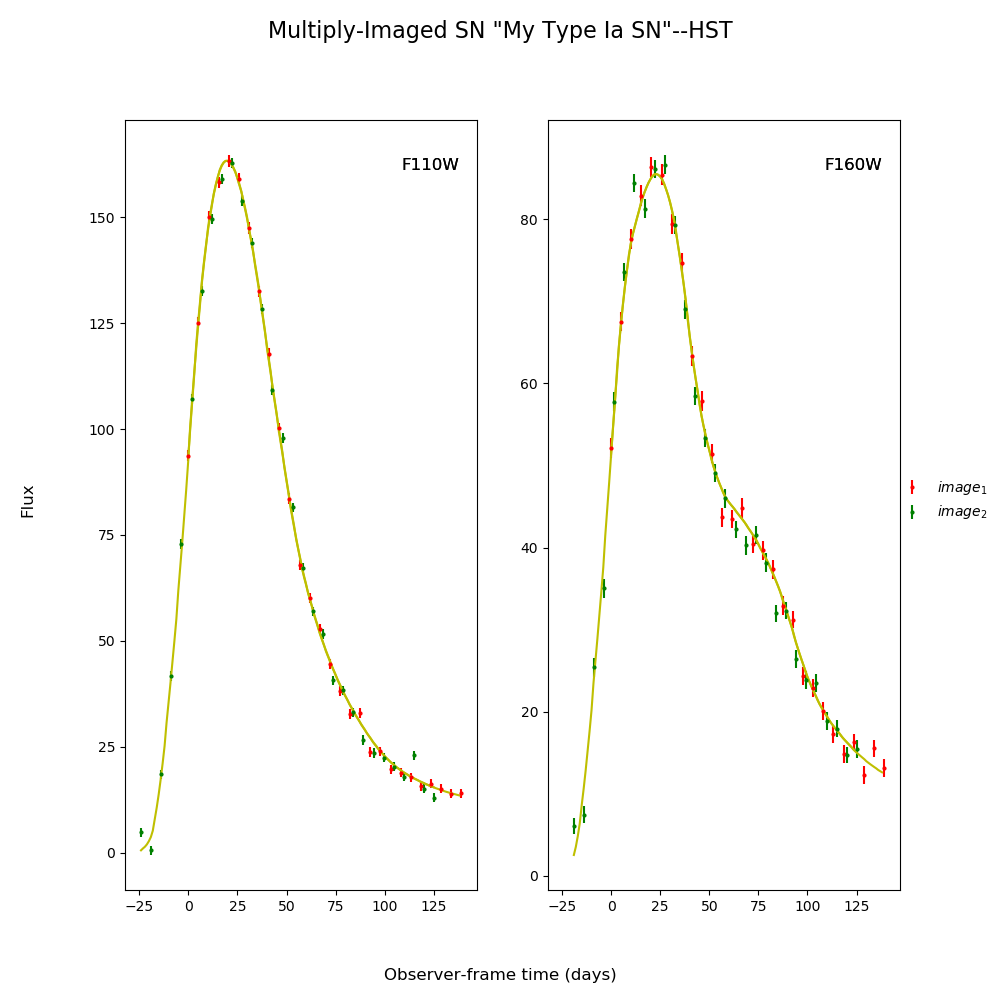
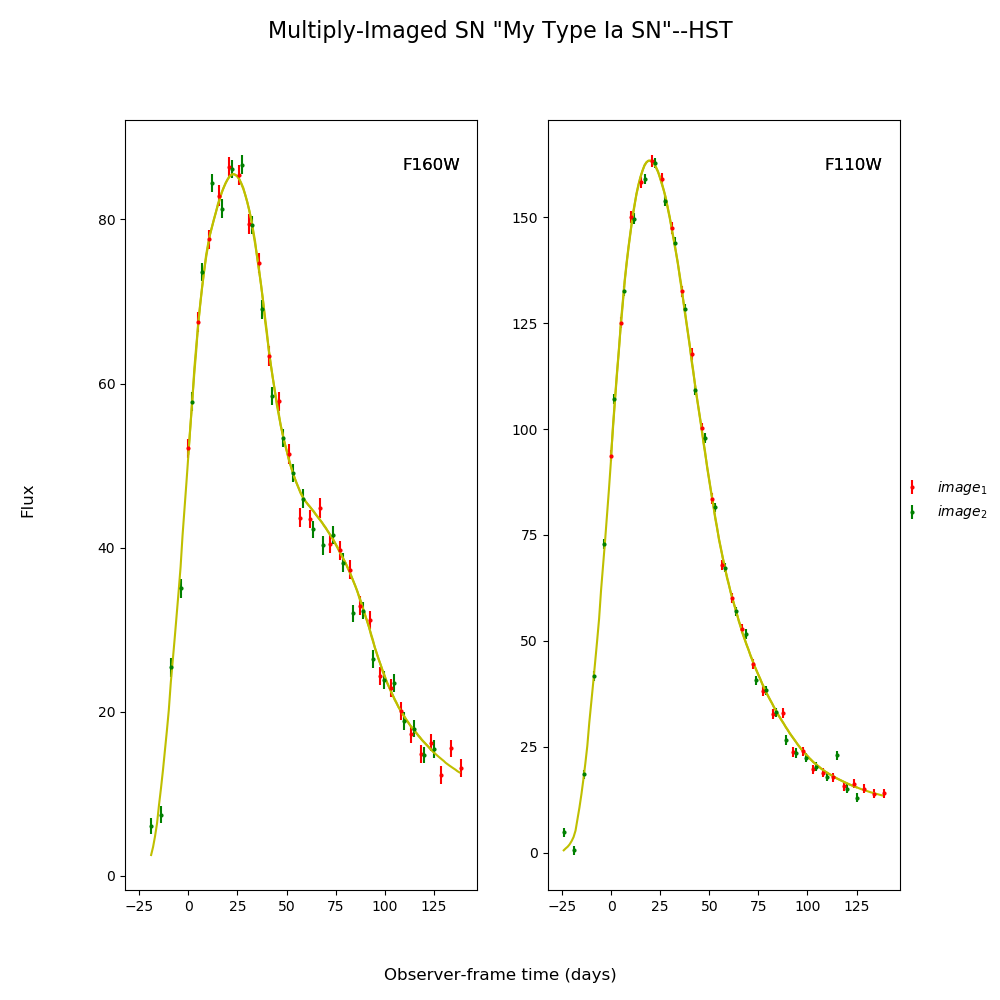
trying to add function ref in docs' '

diff --git a/docs/source/_examples/plot_fitting.py b/docs/source/_examples/plot_fitting.py
@@ -10,9 +10,10 @@ with SNTD.
 ###############################################################
 # There are 3 methods built into SNTD to measure time delays 
 # (parallel, series, color). They are accessed by the same 
-# function:`~sntd.fit_data`. Here ``myMISN`` was generated
-# in the simulation example of the documentation. The true
-# delay for all of these fits is 50 days.
+# function: ~sntd.fit_data . 
+# Here ``myMISN`` was generated in the [simulation example](https://sntd.readthedocs.io/en/latest/examples/plot_sim.html#simulating-supernovae) 
+# of the documentation, using the ~sntd.createMultiplyImagedSN 
+# function. The true delay for all of these fits is 50 days.
 # 
 # **Parallel:**
 
@@ -62,7 +63,7 @@ fitCurves.plot_fit(method='series')
 fitCurves=sntd.fit_data(myMISN,snType='Ia', models='salt2-extended',bands=['F110W','F160W'],
                     params=['t0','c'],constants={'z':1.4,'x1':fitCurves.images['image_1'].fits.model.get('x1')},refImage='image_1',
                     color_param_ignore=['x1'],bounds={'t0':(-20,20),'td':(-20,20),'mu':(.5,2),'c':(-.5,.5)},cut_time=[-50,30],
-                    method='color',microlensing=None,modelcov=False,npoints=100,maxiter=None,minsnr=3)
+                    method='color',microlensing=None,modelcov=False,npoints=200,maxiter=None,minsnr=3)
 
 print(fitCurves.color.time_delays)
 print(fitCurves.color.time_delay_errors)
@@ -81,7 +82,7 @@ fitCurves_parallel=sntd.fit_data(myMISN,snType='Ia', models='salt2-extended',ban
 fitCurves_color=sntd.fit_data(myMISN,snType='Ia', models='salt2-extended',bands=['F110W','F160W'],cut_time=[-50,30],
                 	params=['t0','c'],constants={'z':1.4,'x1':fitCurves.images['image_1'].fits.model.get('x1')},refImage='image_1',
                 	bounds={'t0':(-20,20),'td':(-20,20),'mu':(.5,2),'c':(-.5,.5)},fit_prior=fitCurves_parallel,
-                	method='color',microlensing=None,modelcov=False,npoints=100,maxiter=None,minsnr=3)
+                	method='color',microlensing=None,modelcov=False,npoints=200,maxiter=None,minsnr=3)
 
 print(fitCurves_parallel.parallel.time_delays)
 print(fitCurves_parallel.parallel.time_delay_errors)

diff --git a/docs/source/examples/plot_fitting.py b/docs/source/examples/plot_fitting.py
@@ -10,9 +10,10 @@ with SNTD.
 ###############################################################
 # There are 3 methods built into SNTD to measure time delays 
 # (parallel, series, color). They are accessed by the same 
-# function:`~sntd.fit_data`. Here ``myMISN`` was generated
-# in the simulation example of the documentation. The true
-# delay for all of these fits is 50 days.
+# function: ~sntd.fit_data . 
+# Here ``myMISN`` was generated in the [simulation example](https://sntd.readthedocs.io/en/latest/examples/plot_sim.html#simulating-supernovae) 
+# of the documentation, using the ~sntd.createMultiplyImagedSN 
+# function. The true delay for all of these fits is 50 days.
 # 
 # **Parallel:**
 
@@ -62,7 +63,7 @@ fitCurves.plot_fit(method='series')
 fitCurves=sntd.fit_data(myMISN,snType='Ia', models='salt2-extended',bands=['F110W','F160W'],
                     params=['t0','c'],constants={'z':1.4,'x1':fitCurves.images['image_1'].fits.model.get('x1')},refImage='image_1',
                     color_param_ignore=['x1'],bounds={'t0':(-20,20),'td':(-20,20),'mu':(.5,2),'c':(-.5,.5)},cut_time=[-50,30],
-                    method='color',microlensing=None,modelcov=False,npoints=100,maxiter=None,minsnr=3)
+                    method='color',microlensing=None,modelcov=False,npoints=200,maxiter=None,minsnr=3)
 
 print(fitCurves.color.time_delays)
 print(fitCurves.color.time_delay_errors)
@@ -81,7 +82,7 @@ fitCurves_parallel=sntd.fit_data(myMISN,snType='Ia', models='salt2-extended',ban
 fitCurves_color=sntd.fit_data(myMISN,snType='Ia', models='salt2-extended',bands=['F110W','F160W'],cut_time=[-50,30],
                 	params=['t0','c'],constants={'z':1.4,'x1':fitCurves.images['image_1'].fits.model.get('x1')},refImage='image_1',
                 	bounds={'t0':(-20,20),'td':(-20,20),'mu':(.5,2),'c':(-.5,.5)},fit_prior=fitCurves_parallel,
-                	method='color',microlensing=None,modelcov=False,npoints=100,maxiter=None,minsnr=3)
+                	method='color',microlensing=None,modelcov=False,npoints=200,maxiter=None,minsnr=3)
 
 print(fitCurves_parallel.parallel.time_delays)
 print(fitCurves_parallel.parallel.time_delay_errors)

diff --git a/docs/source/_examples/plot_sim.py b/docs/source/_examples/plot_sim.py
@@ -10,8 +10,9 @@ Simulating a multiply-imaged supernova.
 # Create a simulated multiply-imaged supernova that we can then fit,
 # with no microlensing included in the simulation. Note that your final
 # printed information will be different, as this is a randomly generated
-# supernova.
-# 
+# supernova. The function being used in these examples is 
+# `~sntd.createMultiplyImagedSN` .  
+#
 # **No Microlensing**
    
 import sntd

diff --git a/docs/source/examples/plot_sim.py b/docs/source/examples/plot_sim.py
@@ -10,8 +10,9 @@ Simulating a multiply-imaged supernova.
 # Create a simulated multiply-imaged supernova that we can then fit,
 # with no microlensing included in the simulation. Note that your final
 # printed information will be different, as this is a randomly generated
-# supernova.
-# 
+# supernova. The function being used in these examples is 
+# `~sntd.createMultiplyImagedSN` .  
+#
 # **No Microlensing**
    
 import sntd

diff --git a/setup.py b/setup.py
@@ -18,7 +18,7 @@ class SNTDTest(TestCommand):
 
 AUTHOR = 'Justin Pierel'
 AUTHOR_EMAIL = 'jr23@email.sc.edu'
-VERSION = '2.1.1'
+VERSION = '2.1.2'
 LICENSE = 'BSD'
 URL = 'sntd.readthedocs.org'
 

diff --git a/docs/source/examples/plot_fitting.rst b/docs/source/examples/plot_fitting.rst
@@ -18,9 +18,10 @@ with SNTD.
 
 There are 3 methods built into SNTD to measure time delays 
 (parallel, series, color). They are accessed by the same 
-function:`~sntd.fit_data`. Here ``myMISN`` was generated
-in the simulation example of the documentation. The true
-delay for all of these fits is 50 days.
+function: ~sntd.fit_data . 
+Here ``myMISN`` was generated in the [simulation example](https://sntd.readthedocs.io/en/latest/examples/plot_sim.html#simulating-supernovae) 
+of the documentation, using the ~sntd.createMultiplyImagedSN 
+function. The true delay for all of these fits is 50 days.
 
 **Parallel:**
 
@@ -72,10 +73,10 @@ delay for all of these fits is 50 days.
 
  .. code-block:: none
 
-    {'image_1': 0, 'image_2': 49.8414730726705}
-    {'image_1': array([0, 0]), 'image_2': array([-0.14189589,  0.17789041])}
-    {'image_1': 1, 'image_2': 0.502636885869371}
-    {'image_1': array([0, 0]), 'image_2': array([-0.00427823,  0.0044266 ])}
+    {'image_1': 0, 'image_2': 49.836900725635836}
+    {'image_1': array([0, 0]), 'image_2': array([-0.13812494,  0.18187725])}
+    {'image_1': 1, 'image_2': 0.5029196011691007}
+    {'image_1': array([0, 0]), 'image_2': array([-0.00541875,  0.00461508])}
 
     <Figure size 970x970 with 16 Axes>
 
@@ -129,10 +130,10 @@ Other methods are called in a similar fashion, with a couple of extra arguments:
 
  .. code-block:: none
 
-    {'image_1': 0, 'image_2': 49.833777108305775}
-    {'image_1': array([0, 0]), 'image_2': array([-0.06296027,  0.0816385 ])}
-    {'image_1': 1, 'image_2': 0.5041403357149801}
-    {'image_1': array([0, 0]), 'image_2': array([-0.00154946,  0.00161014])}
+    {'image_1': 0, 'image_2': 49.83537277911139}
+    {'image_1': array([0, 0]), 'image_2': array([-0.0714221 ,  0.07063118])}
+    {'image_1': 1, 'image_2': 0.5040759649360776}
+    {'image_1': array([0, 0]), 'image_2': array([-0.00163658,  0.00172801])}
 
     <Figure size 1390x1390 with 36 Axes>
 
@@ -149,7 +150,7 @@ Other methods are called in a similar fashion, with a couple of extra arguments:
     fitCurves=sntd.fit_data(myMISN,snType='Ia', models='salt2-extended',bands=['F110W','F160W'],
                         params=['t0','c'],constants={'z':1.4,'x1':fitCurves.images['image_1'].fits.model.get('x1')},refImage='image_1',
                         color_param_ignore=['x1'],bounds={'t0':(-20,20),'td':(-20,20),'mu':(.5,2),'c':(-.5,.5)},cut_time=[-50,30],
-                        method='color',microlensing=None,modelcov=False,npoints=100,maxiter=None,minsnr=3)
+                        method='color',microlensing=None,modelcov=False,npoints=200,maxiter=None,minsnr=3)
 
     print(fitCurves.color.time_delays)
     print(fitCurves.color.time_delay_errors)
@@ -179,8 +180,8 @@ Other methods are called in a similar fashion, with a couple of extra arguments:
 
  .. code-block:: none
 
-    {'image_1': 0, 'image_2': 51.719262633703245}
-    {'image_1': array([0, 0]), 'image_2': array([-1.24855496,  1.15507826])}
+    {'image_1': 0, 'image_2': 51.68496378140347}
+    {'image_1': array([0, 0]), 'image_2': array([-1.36230231,  1.25204403])}
 
     <Figure size 760x760 with 9 Axes>
 
@@ -201,7 +202,7 @@ You can include your fit from the parallel method as a prior on light curve and 
     fitCurves_color=sntd.fit_data(myMISN,snType='Ia', models='salt2-extended',bands=['F110W','F160W'],cut_time=[-50,30],
                     	params=['t0','c'],constants={'z':1.4,'x1':fitCurves.images['image_1'].fits.model.get('x1')},refImage='image_1',
                     	bounds={'t0':(-20,20),'td':(-20,20),'mu':(.5,2),'c':(-.5,.5)},fit_prior=fitCurves_parallel,
-                    	method='color',microlensing=None,modelcov=False,npoints=100,maxiter=None,minsnr=3)
+                    	method='color',microlensing=None,modelcov=False,npoints=200,maxiter=None,minsnr=3)
 
     print(fitCurves_parallel.parallel.time_delays)
     print(fitCurves_parallel.parallel.time_delay_errors)
@@ -217,10 +218,10 @@ You can include your fit from the parallel method as a prior on light curve and 
 
  .. code-block:: none
 
-    {'image_1': 0, 'image_2': 49.84516251087465}
-    {'image_1': array([0, 0]), 'image_2': array([-0.12609506,  0.16281335])}
-    {'image_1': 0, 'image_2': 49.75614031311763}
-    {'image_1': array([0, 0]), 'image_2': array([-0.27391995,  0.29953949])}
+    {'image_1': 0, 'image_2': 49.8345907956098}
+    {'image_1': array([0, 0]), 'image_2': array([-0.12805317,  0.15168829])}
+    {'image_1': 0, 'image_2': 49.771326340371765}
+    {'image_1': array([0, 0]), 'image_2': array([-0.2579495 ,  0.27347356])}
 
 
 
@@ -255,7 +256,7 @@ extreme dust in the source and lens frames (your final simulations may look slig
 
  .. code-block:: none
 
-    lensebv: 0.48387096774193544 hostebv: 0.3225806451612903 c: 0.08593983958258328
+    lensebv: 0.48387096774193544 hostebv: 0.3225806451612903 c: 0.06714225863301469
 
 
 
@@ -289,9 +290,9 @@ Okay, now we can fit the MISN first without taking these effects into account:
 
  .. code-block:: none
 
-    {'image_1': 0, 'image_2': 58.30224826127008}
-    {'image_1': array([0, 0]), 'image_2': array([-0.71705348,  0.75502806])}
-    c: 0.4485157726999839
+    {'image_1': 0, 'image_2': 58.29077871389165}
+    {'image_1': array([0, 0]), 'image_2': array([-0.89858212,  0.86912742])}
+    c: 0.44847062781404495
 
     <Figure size 1000x1000 with 2 Axes>
 
@@ -332,9 +333,9 @@ as it attempts to compensate for extinction without a propagation effect. Now le
 
  .. code-block:: none
 
-    {'image_1': 0, 'image_2': 60.90542764935438}
-    {'image_1': array([0, 0]), 'image_2': array([-0.86472438,  0.90865522])}
-    c: -0.10578358855019536 lensebv: -0.004136941634245686 hostebv: 0.8916999498661559
+    {'image_1': 0, 'image_2': 61.23512012212947}
+    {'image_1': array([0, 0]), 'image_2': array([-0.92158669,  1.06504201])}
+    c: 0.22429219160119984 lensebv: 0.3612272742801242 hostebv: 0.26555264524651506
 
     <Figure size 1000x1000 with 2 Axes>
 
@@ -346,7 +347,7 @@ more accurate.
 
 .. rst-class:: sphx-glr-timing
 
-   **Total running time of the script:** ( 7 minutes  19.303 seconds)
+   **Total running time of the script:** ( 15 minutes  30.545 seconds)
 
 
 .. _sphx_glr_download_examples_plot_fitting.py:

diff --git a/docs/source/examples/plot_sim.rst b/docs/source/examples/plot_sim.rst
@@ -18,7 +18,8 @@ Simulating a multiply-imaged supernova.
 Create a simulated multiply-imaged supernova that we can then fit,
 with no microlensing included in the simulation. Note that your final
 printed information will be different, as this is a randomly generated
-supernova.
+supernova. The function being used in these examples is 
+`~sntd.createMultiplyImagedSN` .  
 
 **No Microlensing**
 
@@ -62,9 +63,9 @@ supernova.
     Metadata:
        z:1.4
        t0:20.0
-       x0:1.5932872394214797e-05
-       x1:-1.871808150877844
-       c:-0.060914333857906504
+       x0:4.717933761242799e-06
+       x1:2.0391629732663894
+       c:-0.05282284476175894
        sourcez:1.4
        hostebv:0
        lensebv:0
@@ -80,9 +81,9 @@ supernova.
     Metadata:
        z:1.4
        t0:70.0
-       x0:7.966436197107398e-06
-       x1:-1.871808150877844
-       c:-0.060914333857906504
+       x0:2.3589668806213994e-06
+       x1:2.0391629732663894
+       c:-0.05282284476175894
        sourcez:1.4
        hostebv:0
        lensebv:0
@@ -134,16 +135,16 @@ in any way you want.
 
     ------------------
     Image: image_1:
-    Bands: ['F110W', 'F125W']
+    Bands: ['F125W', 'F110W']
     Date Range: 0.00000->123.52941
     Number of points: 50
 
     Metadata:
        z:1.33
        t0:10.0
-       x0:1.2561391983309993e-05
-       x1:0.8229871997654377
-       c:-0.055061642099907215
+       x0:6.494176446119458e-06
+       x1:1.131118738018449
+       c:-0.05397004195498919
        sourcez:1.33
        hostebv:0.0967741935483871
        lensebv:0
@@ -152,16 +153,16 @@ in any way you want.
        td:10.0
     ------------------
     Image: image_2:
-    Bands: ['F110W', 'F125W']
+    Bands: ['F125W', 'F110W']
     Date Range: 25.73529->175.00000
-    Number of points: 58
+    Number of points: 56
 
     Metadata:
        z:1.33
        t0:70.0
-       x0:6.280695991654996e-06
-       x1:0.8229871997654377
-       c:-0.055061642099907215
+       x0:3.247088223059729e-06
+       x1:1.131118738018449
+       c:-0.05397004195498919
        sourcez:1.33
        hostebv:0.0967741935483871
        lensebv:0
@@ -211,37 +212,37 @@ in any way you want.
 
     ------------------
     Image: image_1:
-    Bands: ['F110W', 'F125W']
+    Bands: ['F125W', 'F110W']
     Date Range: 0.00000->123.52941
-    Number of points: 49
+    Number of points: 50
 
     Metadata:
        z:1.33
        t0:10.0
-       x0:4.891221481728929e-06
-       x1:-0.009577443244118713
-       c:-0.2789072375453796
+       x0:7.620855568458378e-06
+       x1:1.2103272697854583
+       c:-0.00832174205257879
        sourcez:1.33
-       hostebv:0.17640412882468665
-       lensebv:0.15250667583225738
+       hostebv:0.18363487218657767
+       lensebv:0.20937423654696036
        lensz:0.53
        mu:7
        td:10.0
     ------------------
     Image: image_2:
-    Bands: ['F110W', 'F125W']
+    Bands: ['F125W', 'F110W']
     Date Range: 25.73529->175.00000
-    Number of points: 55
+    Number of points: 58
 
     Metadata:
        z:1.33
        t0:70.0
-       x0:2.4456107408644644e-06
-       x1:-0.009577443244118713
-       c:-0.2789072375453796
+       x0:3.810427784229189e-06
+       x1:1.2103272697854583
+       c:-0.00832174205257879
        sourcez:1.33
-       hostebv:0.17640412882468665
-       lensebv:0.15250667583225738
+       hostebv:0.18363487218657767
+       lensebv:0.20937423654696036
        lensz:0.53
        mu:3.5
        td:70.0
@@ -254,7 +255,7 @@ in any way you want.
 
 .. rst-class:: sphx-glr-timing
 
-   **Total running time of the script:** ( 0 minutes  6.239 seconds)
+   **Total running time of the script:** ( 0 minutes  8.761 seconds)
 
 
 .. _sphx_glr_download_examples_plot_sim.py:

diff --git a/docs/source/examples/sg_execution_times.rst b/docs/source/examples/sg_execution_times.rst
@@ -5,10 +5,10 @@
 
 Computation times
 =================
-**00:06.239** total execution time for **examples** files:
+**00:08.761** total execution time for **examples** files:
 
 +----------------------------------------------------------------+-----------+--------+
-| :ref:`sphx_glr_examples_plot_sim.py` (``plot_sim.py``)         | 00:06.239 | 0.0 MB |
+| :ref:`sphx_glr_examples_plot_sim.py` (``plot_sim.py``)         | 00:08.761 | 0.0 MB |
 +----------------------------------------------------------------+-----------+--------+
 | :ref:`sphx_glr_examples_plot_fitting.py` (``plot_fitting.py``) | 00:00.000 | 0.0 MB |
 +----------------------------------------------------------------+-----------+--------+
